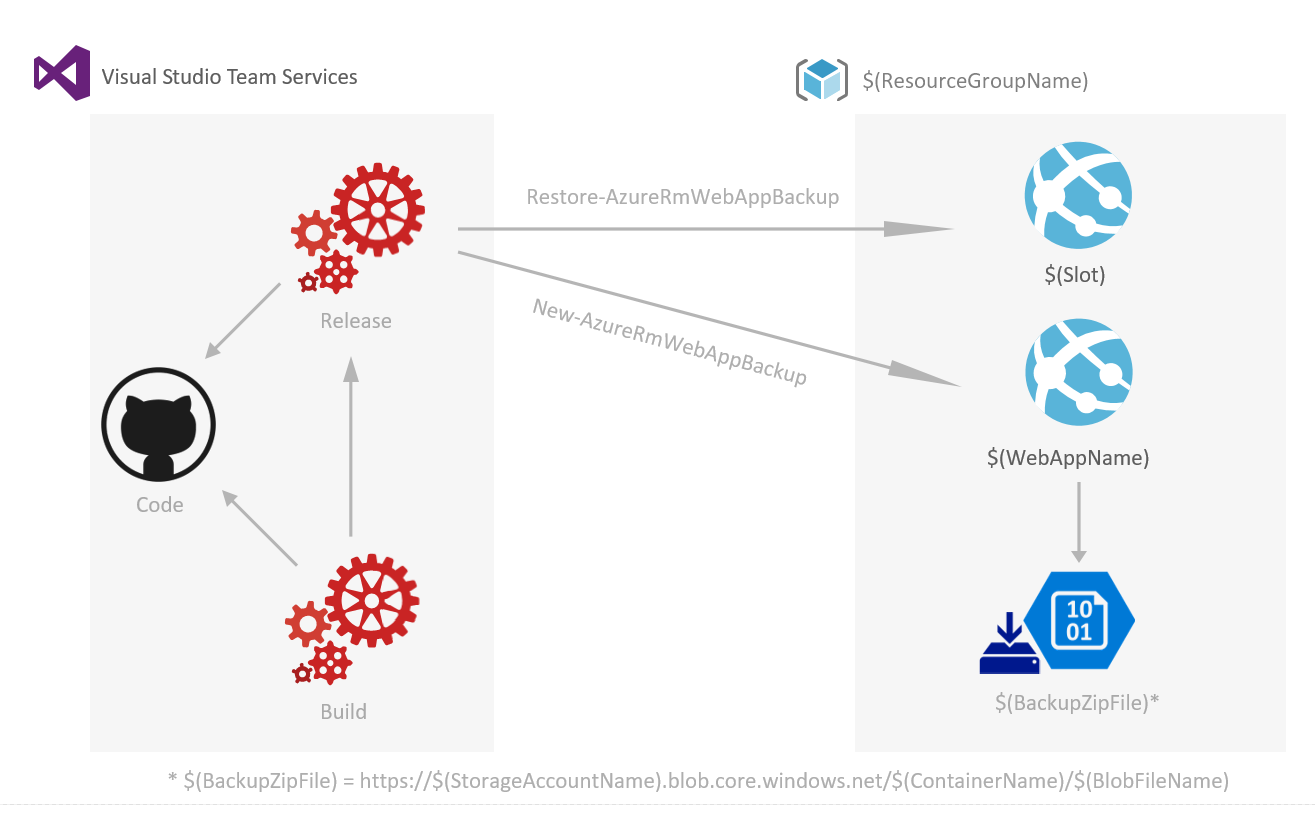
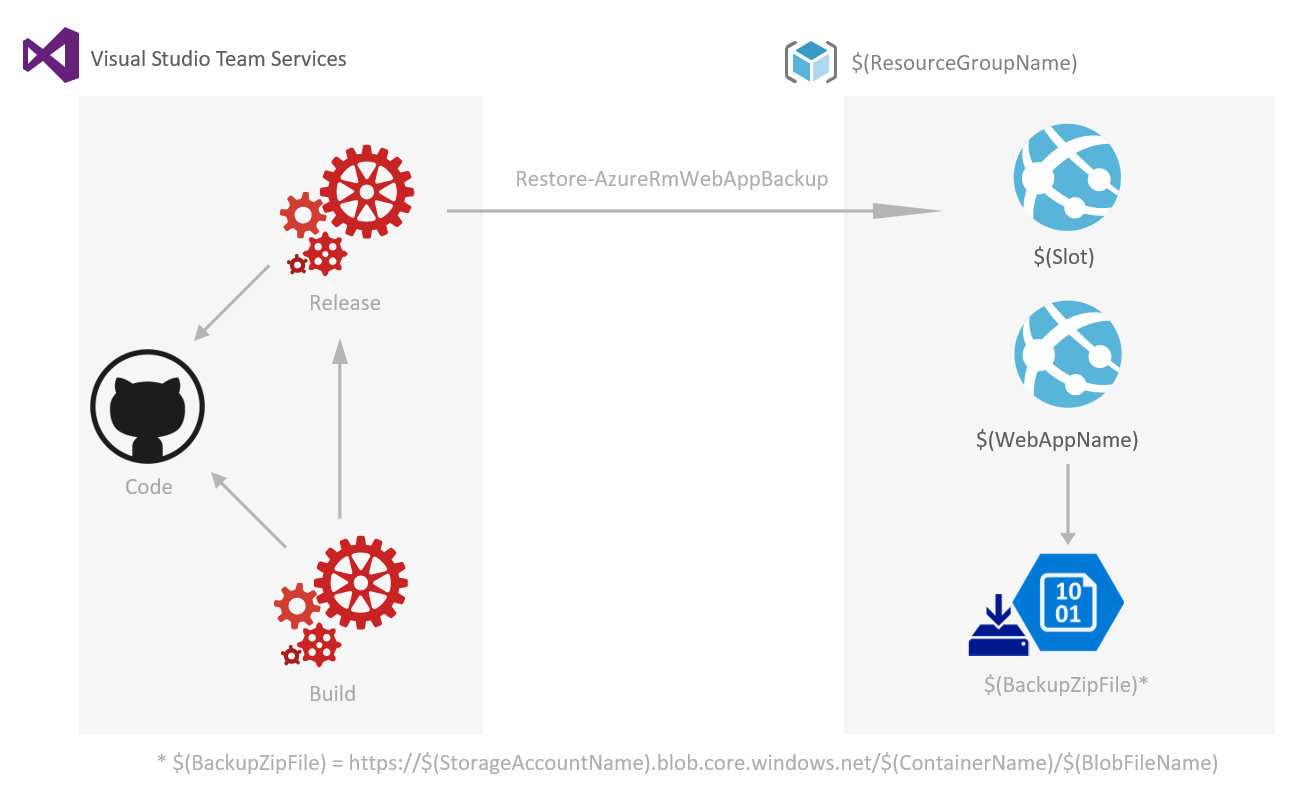
Add documentation for the Backup-Restore approach.

diff --git a/Blob-Start-Stop-Approach.md b/Blob-Start-Stop-Approach.md
@@ -57,16 +57,16 @@ This sample consists on using the Azure Web App Backup feature but restoring par
 ## Release steps/tasks:
 
 - Stop Slot (Azure Powershell)
-  - Script Path = $(System.DefaultWorkingDirectory)/Prepare Copy Azure Web App backup to a Slot/drop-ps1/[StopAzureWebAppSlot.ps1](/scripts/StopAzureWebAppSlot.ps1)
+  - Script Path = $(System.DefaultWorkingDirectory)/{build-name}/drop-ps1/[StopAzureWebAppSlot.ps1](/scripts/StopAzureWebAppSlot.ps1)
   - Script Arguments = $(ResourceGroupName) $(WebAppName) $(Slot)
 - FTP Upload (FTP Upload)
-  - Source folder = $(System.DefaultWorkingDirectory)/Prepare Copy Azure Web App backup to a Slot/drop-unzip-files
+  - Source folder = $(System.DefaultWorkingDirectory)/{build-name}/drop-unzip-files
   - File pattern = \**\**
   - Remote directory = /site/wwwroot
   - Clean remote directory = checked, if you want
   - Overwrite = checked
   - Preserve file paths = checked
 - Start Slot (Azure Powershell)
-  - Script Path = $(System.DefaultWorkingDirectory)/Prepare Copy Azure Web App backup to a Slot/drop-ps1/[StartAzureWebAppSlot.ps1](/scripts/StartAzureWebAppSlot.ps1)
+  - Script Path = $(System.DefaultWorkingDirectory)/{build-name}/drop-ps1/[StartAzureWebAppSlot.ps1](/scripts/StartAzureWebAppSlot.ps1)
   - Script Arguments = $(ResourceGroupName) $(WebAppName) $(Slot)
   

diff --git a/Backup-Restore-Approach.md b/Backup-Restore-Approach.md
@@ -14,10 +14,33 @@ This sample consists on using the built-in Azure Web App Backup and Restore feat
 
 # VSTS Build Definition
 
-TODO
+![VSTS Build Definition](/images/Backup-Restore-Approach - Build Definition.PNG)
+
+## Build variables:
+- N/A
+
+## Build steps/tasks:
+- Copy Publish Artifact: drop-ps1 (Copy and Publish Build Artifact)
+  - Copy Root = scripts
+  - Content = *.ps1
+  - Artifact Name = drop-ps1
+  - Artifact Type = Server
 
 # VSTS Release Definition
 
-TODO
+![VSTS Release Definition](/images/Backup-Restore-Approach - Release Definition.PNG)
+
+## Release variables:
+- ResourceGroupName
+- WebAppName
+- Slot
+- StorageAccountName
+- ContainerName
+- BlobFileName
+
+## Release steps/tasks:
+- Restore backup to Slot (Azure Powershell)
+  - Script Path = $(System.DefaultWorkingDirectory)/{build-name}/drop-ps1/[RestoreAzureWebAppBackup.ps1](/scripts/RestoreAzureWebAppBackup.ps1)
+  - Script Arguments = $(ResourceGroupName) $(WebAppName) $(SlotName) $(StorageAccountName) $(ContainerName) $(BlobFileName)
 
 Note: Like explained [here](https://azure.microsoft.com/en-us/documentation/articles/app-service-powershell-backup/) you could improve that by including database backup, setup Schedule automatic backup, etc. 
